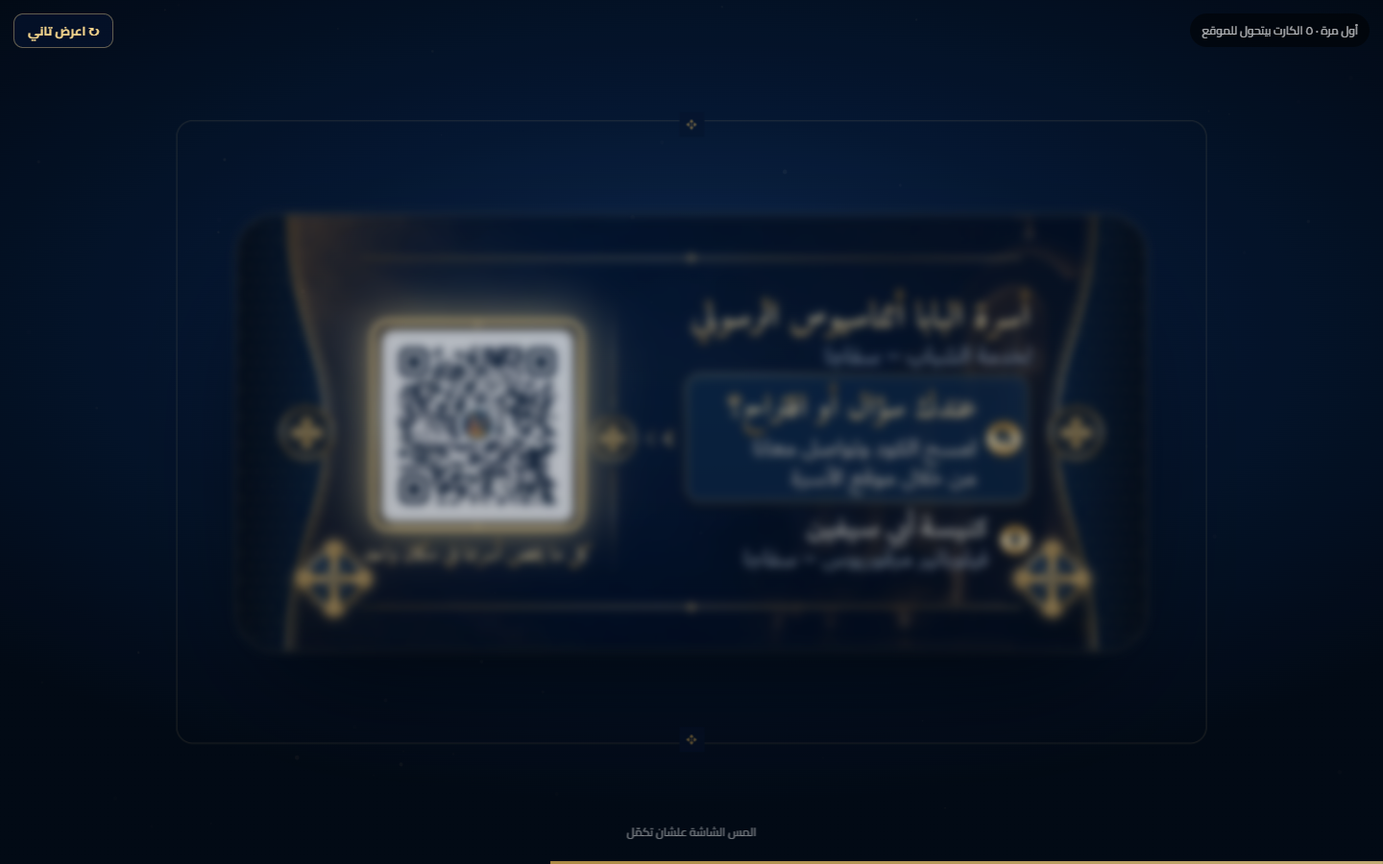
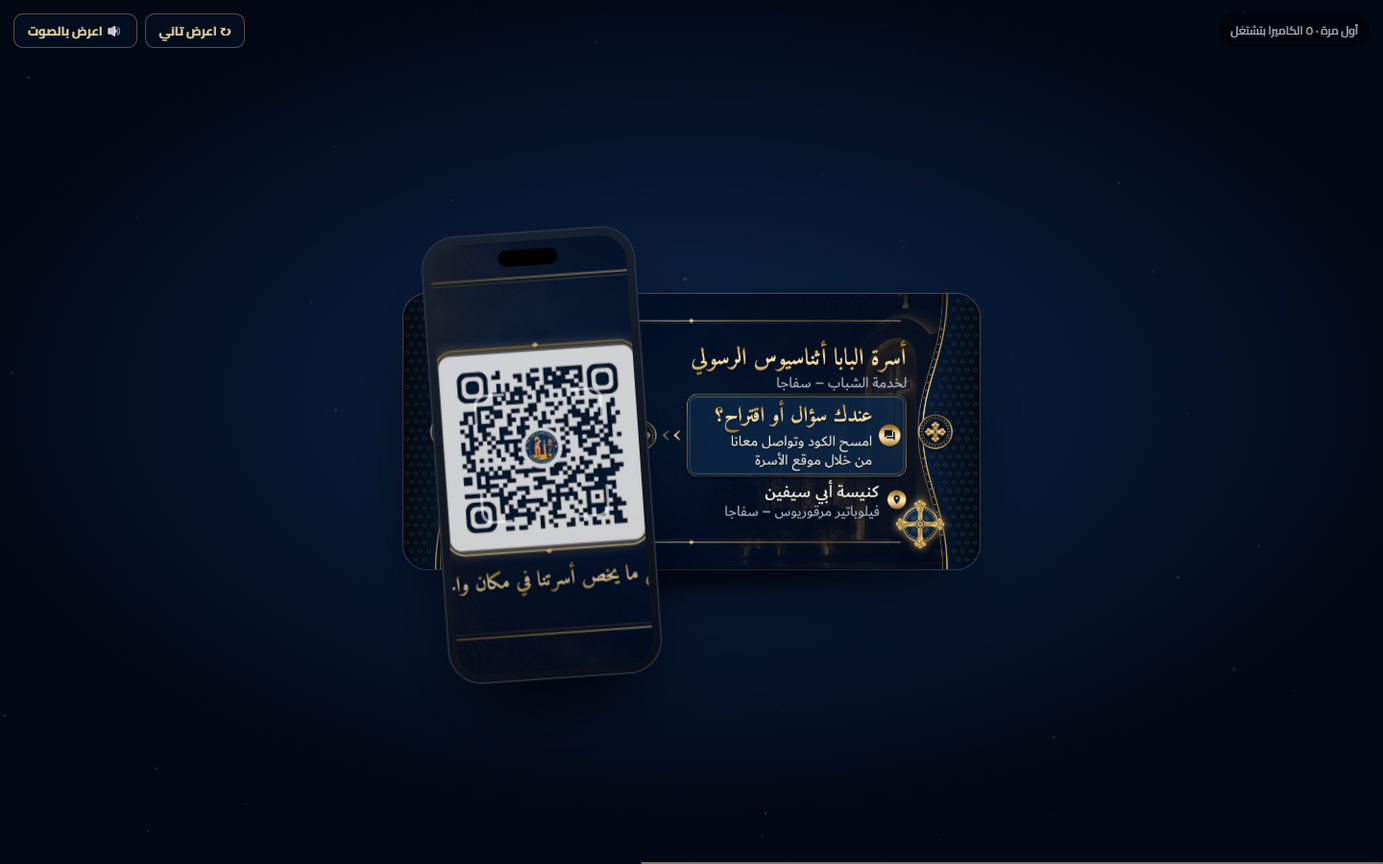
docs(site): S1 intro v2 — owner notes (clean text, one calm turn, phone reveal, no ornaments, softer gold, sound cues)

diff --git a/docs/site-redesign/intro.html b/docs/site-redesign/intro.html
@@ -2,100 +2,91 @@
 <html lang="ar" dir="rtl">
 <meta charset="utf-8">
 <meta name="viewport" content="width=device-width, initial-scale=1, viewport-fit=cover">
-<title>الموقع العام — الانترو المقترح (S1)</title>
+<title>الموقع العام — الانترو المقترح (S1 · نسخة ٢)</title>
 <!--
-  S1 proposal: the public site's intro, separate from the admin's.
-  ?v=first  (default) — first visit until the member makes an account: card 3D turn → phone scans the QR →
-                         the card becomes the site → backdrop → logo + name → slogan → welcome.
-  ?v=member — after the account exists: lighter, no card, no scan.
-  ?freeze=<ms> pauses everything at that moment (stage screenshots); ?replay shows the replay button.
+  S1 v2 (owner notes 2026-11-05): clean solid text with nothing behind it, a calm single card turn (ease-in-out),
+  the phone arrives with a clean screen and the QR shows only when its camera scans, no crosses/ornaments,
+  a softer gold logo, and sound cues for every stage (synthesised here; real SFX files at build time).
+  ?v=first (default) | ?v=member · ?freeze=<ms> pauses at that moment · «اعرض بالصوت» replays with sound.
 -->
 <style>
   @font-face { font-family: "Cairo"; src: url("../../assets/fonts/cairo-arabic.woff2") format("woff2"); unicode-range: U+0600-06FF, U+FB50-FDFF, U+FE70-FEFF; font-weight: 200 1000; }
   @font-face { font-family: "Cairo"; src: url("../../assets/fonts/cairo-latin.woff2") format("woff2"); unicode-range: U+0000-00FF; font-weight: 200 1000; }
   @font-face { font-family: "Aref Ruqaa"; src: url("../../assets/fonts/aref-ruqaa-arabic.woff2") format("woff2"); font-weight: 400 700; }
-  :root { --gold: #d7aa50; --gold-hi: #f2d28b; --navy: #04122a; --navy-2: #0a2448; --ease: cubic-bezier(.16, 1, .3, 1); }
+  :root { --champagne: #e3cf9f; --champagne-2: #c9ad74; --ink: #eef2f7; --ink-2: #b7c3d3; }
   * { box-sizing: border-box; }
-  html, body { margin: 0; height: 100%; overflow: hidden; background: #01060f; font-family: "Cairo", system-ui, sans-serif; color: #eef3f9; }
-  .stage { position: fixed; inset: 0; overflow: hidden; perspective: 1400px; display: grid; place-items: center; cursor: pointer; }
-  /* the dark room before the card */
-  .room { position: absolute; inset: 0; background: radial-gradient(50% 45% at 50% 48%, #0d2a50 0%, #04102a 55%, #01060f 100%); }
-  .dust { position: absolute; inset: 0; width: 100%; height: 100%; }
-  /* the card: real art, two faces, 3D turn */
-  .card { position: absolute; width: min(78vw, 620px); aspect-ratio: 1134 / 543; transform-style: preserve-3d; will-change: transform; }
-  .card__face { position: absolute; inset: 0;  border-radius: 4.2%/8.8%; overflow: hidden; box-shadow: 0 40px 90px -30px rgb(0 0 0 / .9), 0 0 0 1px rgb(242 210 139 / .35); }
+  html, body { margin: 0; height: 100%; overflow: hidden; background: #020814; font-family: "Cairo", system-ui, sans-serif; color: var(--ink); }
+  .stage { position: fixed; inset: 0; overflow: hidden; perspective: 1600px; display: grid; place-items: center; cursor: pointer; }
+  .room { position: absolute; inset: 0; background: radial-gradient(55% 50% at 50% 46%, #0c2546 0%, #061630 52%, #020814 100%); opacity: 0; }
+  .dust { position: absolute; inset: 0; width: 100%; height: 100%; opacity: .55; }
+  .site { position: absolute; inset: 0; background: radial-gradient(60% 55% at 50% 40%, #0e2a50 0%, #071b38 45%, #030b1a 100%); opacity: 0; }
+  .glow { position: absolute; left: 50%; top: 40%; width: 70vmin; height: 70vmin; margin: -35vmin 0 0 -35vmin; border-radius: 50%; background: radial-gradient(circle, rgb(227 207 159 / .12), transparent 65%); opacity: 0; }
+  .card { position: absolute; width: min(74vw, 600px); aspect-ratio: 1134 / 543; transform-style: preserve-3d; opacity: 0; will-change: transform; }
+  .card__face { position: absolute; inset: 0; border-radius: 4.2%/8.8%; overflow: hidden; box-shadow: 0 36px 80px -34px rgb(0 0 0 / .95), 0 0 0 1px rgb(227 207 159 / .28); }
   .card__face img { width: 100%; height: 100%; display: block; }
-  .card__face--qr { transform: rotateY(180deg) translateZ(1px); }
-  .card__sheen { position: absolute; inset: 0; background: linear-gradient(115deg, transparent 30%, rgb(255 244 214 / .32) 48%, transparent 62%); transform: translateX(-120%); }
-  .card__glow { position: absolute; inset: -18%; border-radius: 30%; background: radial-gradient(closest-side, rgb(215 170 80 / .35), transparent 70%); filter: blur(10px); transform: translateZ(-40px); opacity: 0; }
-  /* the QR area on the QR face (x 15.6%–37.3%, y 25.7%–71%) */
-  .qrmark { position: absolute; right: 15.2%; top: 25%; width: 22.6%; height: 46.6%; border-radius: 10px; box-shadow: 0 0 0 3px var(--gold-hi), 0 0 30px 6px rgb(242 210 139 / .7); opacity: 0; transform: rotateY(180deg) translateZ(2px); }
-  /* the phone that scans */
-  .phone { position: absolute; width: min(30vw, 230px); aspect-ratio: 9 / 19; border-radius: 34px; background: #0b0f17; padding: 9px; box-shadow: 0 0 0 2px #2a3446, 0 40px 80px -24px #000, inset 0 0 0 1px #000; opacity: 0; will-change: transform; }
-  .phone__screen { position: relative; width: 100%; height: 100%; border-radius: 26px; overflow: hidden; background: #000; }
-  .phone__cam { position: absolute; inset: 0; background-image: url(assets/card-front.png); background-size: 470% auto; background-position: 20% 50%; filter: saturate(1.05) brightness(.95); }
-  .phone__notch { position: absolute; top: 8px; left: 50%; width: 34%; height: 18px; margin-left: -17%; border-radius: 12px; background: #000; z-index: 3; }
-  .phone__ui { position: absolute; inset: 0; z-index: 2; display: grid; place-items: center; }
-  .finder { position: relative; width: 68%; aspect-ratio: 1; }
-  .finder i { position: absolute; width: 26%; height: 26%; border: 4px solid #fff; }
-  .finder i:nth-child(1) { top: 0; right: 0; border-left: 0; border-bottom: 0; border-radius: 0 14px 0 0; }
-  .finder i:nth-child(2) { top: 0; left: 0; border-right: 0; border-bottom: 0; border-radius: 14px 0 0 0; }
-  .finder i:nth-child(3) { bottom: 0; right: 0; border-left: 0; border-top: 0; border-radius: 0 0 14px 0; }
-  .finder i:nth-child(4) { bottom: 0; left: 0; border-right: 0; border-top: 0; border-radius: 0 0 0 14px; }
-  .scanline { position: absolute; left: 6%; right: 6%; top: 8%; height: 3px; border-radius: 3px; background: linear-gradient(90deg, transparent, var(--gold-hi), transparent); box-shadow: 0 0 14px 2px var(--gold); }
-  .phone__ok { position: absolute; bottom: 9%; left: 8%; right: 8%; z-index: 4; display: flex; align-items: center; gap: 8px; padding: 9px 12px; border-radius: 16px; background: rgb(10 30 60 / .88); border: 1px solid rgb(242 210 139 / .4); font-size: 12px; font-weight: 800; opacity: 0; transform: translateY(12px); }
-  .phone__ok b { width: 22px; height: 22px; border-radius: 50%; display: grid; place-items: center; background: linear-gradient(135deg, var(--gold-hi), var(--gold)); color: #1d1203; font-size: 13px; flex: none; }
-  /* the morph: the card's art fills the screen and settles into the site's own backdrop */
-  .wash { position: absolute; inset: 0; background: radial-gradient(70% 55% at 50% 38%, #10305a 0%, #061936 45%, #020a16 100%); opacity: 0; }
-  .rays { position: absolute; left: 50%; top: 38%; width: 220vmax; height: 220vmax; margin: -110vmax 0 0 -110vmax; background: repeating-conic-gradient(from 0deg, rgb(242 210 139 / .07) 0deg 2deg, transparent 2deg 15deg); -webkit-mask: radial-gradient(circle, #000 0, transparent 34%); mask: radial-gradient(circle, #000 0, transparent 34%); opacity: 0; }
-  .crosses { position: absolute; inset: 0; background-image: radial-gradient(circle at 1px 1px, rgb(242 210 139 / .16) 1px, transparent 1.6px); background-size: 34px 34px; -webkit-mask: radial-gradient(60% 50% at 50% 40%, transparent 20%, #000 80%); mask: radial-gradient(60% 50% at 50% 40%, transparent 20%, #000 80%); opacity: 0; }
-  .frame { position: absolute; inset: 4vmin; border: 1px solid rgb(242 210 139 / .35); border-radius: 22px; opacity: 0; }
-  .frame::before, .frame::after { content: "✥"; position: absolute; top: -12px; left: 50%; transform: translateX(-50%); color: var(--gold); font-size: 18px; background: #04122a; padding: 0 8px; }
-  .frame::after { top: auto; bottom: -12px; }
-  /* logo, name, slogan, welcome */
-  .brand { position: absolute; top: 50%; left: 50%; transform: translate(-50%, -58%); display: flex; flex-direction: column; align-items: center; text-align: center; width: min(92vw, 760px); }
-  .logo { position: relative; width: clamp(120px, 20vmin, 190px); aspect-ratio: 1; opacity: 0; }
-  .logo img { width: 100%; height: 100%; border-radius: 50%; display: block; box-shadow: 0 0 0 2px rgb(242 210 139 / .6), 0 0 70px -10px var(--gold), 0 30px 60px -30px #000; }
-  .logo__halo { position: absolute; inset: -70%; border-radius: 50%; background: radial-gradient(circle, rgb(215 170 80 / .32) 0%, rgb(215 170 80 / .08) 40%, transparent 68%); }
-  .logo__ring { position: absolute; inset: -12px; border-radius: 50%; border: 1px solid rgb(242 210 139 / .45); }
-  .name { margin: 22px 0 0; font-family: "Aref Ruqaa", serif; font-weight: 700; font-size: clamp(36px, 7.4vmin, 66px); line-height: 1.25; background: linear-gradient(180deg, #fff4d6, var(--gold-hi) 45%, var(--gold)); -webkit-background-clip: text; background-clip: text; color: transparent; filter: drop-shadow(0 6px 18px rgb(215 170 80 / .25)); clip-path: inset(0 0 0 100%); }
-  .sub { margin: 2px 0 0; font-family: "Aref Ruqaa", serif; font-size: clamp(17px, 3vmin, 25px); color: var(--gold-hi); opacity: 0; }
-  .slogan { margin: 22px 0 0; font-size: clamp(17px, 3vmin, 24px); font-weight: 700; color: #fff; opacity: 0; }
-  .slogan em { font-style: normal; color: var(--gold-hi); }
-  .welcome { margin: 16px 0 0; max-width: 560px; font-size: clamp(14px, 2.3vmin, 18px); line-height: 1.9; color: #c9d5e4; opacity: 0; }
-  .welcome b { color: var(--gold-hi); }
-  .hint { position: absolute; bottom: 22px; left: 50%; transform: translateX(-50%); font-size: 12px; color: rgb(255 255 255 / .45); opacity: 0; }
-  .bar { position: absolute; bottom: 0; left: 0; height: 3px; width: 100%; background: linear-gradient(90deg, var(--gold), var(--gold-hi)); transform-origin: right; transform: scaleX(0); opacity: .8; }
-  .replay { position: fixed; top: 14px; left: 14px; z-index: 9; height: 36px; padding: 0 14px; border-radius: 10px; border: 1px solid rgb(242 210 139 / .4); background: rgb(4 18 42 / .8); color: var(--gold-hi); font: 700 13px Cairo, sans-serif; cursor: pointer; display: none; }
-  .stagename { position: fixed; top: 14px; right: 14px; z-index: 9; padding: 6px 12px; border-radius: 999px; background: rgb(0 0 0 / .5); font-size: 12px; color: rgb(255 255 255 / .7); display: none; }
-  html.show-ui .replay, html.show-ui .stagename { display: block; }
-  @media (max-width: 700px) {
-    .card { width: 88vw; }
-    .phone { width: 46vw; }
-  }
+  .card__face--qr { transform: rotateY(180deg); opacity: 0; }
+  .card__sheen { position: absolute; inset: 0; background: linear-gradient(110deg, transparent 35%, rgb(255 248 230 / .16) 50%, transparent 65%); transform: translateX(-130%); }
+  .shadow { position: absolute; width: min(60vw, 480px); height: 40px; margin-top: min(36vw, 300px); border-radius: 50%; background: radial-gradient(closest-side, rgb(0 0 0 / .55), transparent); opacity: 0; filter: blur(6px); }
+  .qrmark { position: absolute; right: 15.2%; top: 25%; width: 22.6%; height: 46.6%; border-radius: 10px; box-shadow: 0 0 0 2px var(--champagne), 0 0 22px 2px rgb(227 207 159 / .45); opacity: 0; transform: rotateY(180deg) translateZ(2px); }
+  .phone { position: absolute; width: min(28vw, 220px); aspect-ratio: 9 / 19; border-radius: 34px; background: linear-gradient(160deg, #1a2231, #0a0e15); padding: 8px; box-shadow: 0 0 0 1.5px #2c3647, 0 40px 80px -28px #000; opacity: 0; will-change: transform; }
+  .phone__screen { position: relative; width: 100%; height: 100%; border-radius: 27px; overflow: hidden; background: linear-gradient(170deg, #10233f, #050b16 70%); }
+  .phone__island { position: absolute; top: 9px; left: 50%; width: 30%; height: 17px; margin-left: -15%; border-radius: 12px; background: #000; z-index: 5; }
+  .phone__idle { position: absolute; inset: 0; display: flex; flex-direction: column; align-items: center; justify-content: center; gap: 12px; color: var(--ink-2); font-size: 12px; font-weight: 700; }
+  .phone__idle i { width: 46px; height: 46px; border-radius: 14px; display: grid; place-items: center; background: rgb(255 255 255 / .07); border: 1px solid rgb(255 255 255 / .12); }
+  .phone__idle svg { width: 22px; height: 22px; fill: none; stroke: var(--champagne); stroke-width: 1.7; stroke-linecap: round; stroke-linejoin: round; }
+  .phone__cam { position: absolute; inset: 0; background-image: url(assets/card-front.png); background-size: 470% auto; background-position: 20% 50%; opacity: 0; filter: brightness(.92); }
+  .phone__ui { position: absolute; inset: 0; display: grid; place-items: center; opacity: 0; }
+  .finder { position: relative; width: 66%; aspect-ratio: 1; }
+  .finder i { position: absolute; width: 24%; height: 24%; border: 3px solid rgb(255 255 255 / .92); }
+  .finder i:nth-child(1) { top: 0; right: 0; border-left: 0; border-bottom: 0; border-radius: 0 12px 0 0; }
+  .finder i:nth-child(2) { top: 0; left: 0; border-right: 0; border-bottom: 0; border-radius: 12px 0 0 0; }
+  .finder i:nth-child(3) { bottom: 0; right: 0; border-left: 0; border-top: 0; border-radius: 0 0 12px 0; }
+  .finder i:nth-child(4) { bottom: 0; left: 0; border-right: 0; border-top: 0; border-radius: 0 0 0 12px; }
+  .scanline { position: absolute; left: 6%; right: 6%; top: 6%; height: 2px; border-radius: 2px; background: linear-gradient(90deg, transparent, var(--champagne), transparent); box-shadow: 0 0 10px 1px rgb(227 207 159 / .6); opacity: 0; }
+  .phone__ok { position: absolute; bottom: 9%; left: 8%; right: 8%; display: flex; align-items: center; gap: 8px; padding: 9px 11px; border-radius: 15px; background: rgb(8 22 44 / .92); border: 1px solid rgb(227 207 159 / .3); font-size: 11.5px; font-weight: 700; color: var(--ink); opacity: 0; }
+  .phone__ok b { width: 20px; height: 20px; border-radius: 50%; display: grid; place-items: center; background: var(--champagne); color: #1b1407; font-size: 12px; flex: none; }
+  .brand { position: absolute; top: 50%; left: 50%; transform: translate(-50%, -54%); display: flex; flex-direction: column; align-items: center; text-align: center; width: min(92vw, 720px); }
+  .logo { position: relative; width: clamp(112px, 18vmin, 168px); aspect-ratio: 1; opacity: 0; }
+  .logo img { width: 100%; height: 100%; border-radius: 50%; display: block; filter: saturate(.72) brightness(.9) contrast(1.02); box-shadow: 0 0 0 1px rgb(227 207 159 / .35), 0 24px 50px -26px #000; }
+  .logo__ring { position: absolute; inset: -10px; border-radius: 50%; border: 1px solid rgb(227 207 159 / .22); opacity: 0; }
+  .name { margin: 26px 0 0; font-family: "Aref Ruqaa", serif; font-weight: 700; font-size: clamp(34px, 6.6vmin, 58px); line-height: 1.35; color: var(--champagne); opacity: 0; }
+  .sub { margin: 4px 0 0; font-family: "Aref Ruqaa", serif; font-size: clamp(16px, 2.7vmin, 22px); color: var(--champagne-2); opacity: 0; }
+  .line { width: 64px; height: 1px; margin: 22px 0 0; background: rgb(227 207 159 / .45); transform: scaleX(0); }
+  .slogan { margin: 20px 0 0; font-size: clamp(17px, 2.9vmin, 23px); font-weight: 700; color: var(--ink); opacity: 0; }
+  .welcome { margin: 10px 0 0; max-width: 560px; font-size: clamp(14px, 2.2vmin, 17px); line-height: 1.9; color: var(--ink-2); opacity: 0; }
+  .welcome b { color: var(--champagne); font-weight: 700; }
+  .bar { position: absolute; bottom: 0; left: 0; height: 2px; width: 100%; background: rgb(227 207 159 / .55); transform-origin: right; transform: scaleX(0); }
+  .ui { position: fixed; top: 14px; left: 14px; z-index: 9; display: flex; gap: 8px; }
+  .ui button { height: 36px; padding: 0 14px; border-radius: 10px; border: 1px solid rgb(227 207 159 / .35); background: rgb(4 14 30 / .85); color: var(--champagne); font: 700 13px Cairo, sans-serif; cursor: pointer; }
+  .stagename { position: fixed; top: 14px; right: 14px; z-index: 9; padding: 6px 12px; border-radius: 999px; background: rgb(0 0 0 / .45); font-size: 12px; color: rgb(255 255 255 / .7); }
+  @media (max-width: 700px) { .card { width: 86vw; } .phone { width: 34vw; } .shadow { margin-top: 44vw; width: 70vw; } .stagename { top: auto; bottom: 14px; right: 50%; transform: translateX(50%); white-space: nowrap; } }
 </style>
 <body>
-<button class="replay" type="button" onclick="location.reload()">↻ اعرض تاني</button>
+<div class="ui"><button type="button" id="replay">↻ اعرض تاني</button><button type="button" id="sound">🔊 اعرض بالصوت</button></div>
 <span class="stagename" id="stagename"></span>
 <div class="stage" id="stage">
   <div class="room"></div>
   <canvas class="dust"></canvas>
-  <div class="wash"></div><div class="rays"></div><div class="crosses"></div><div class="frame"></div>
+  <div class="site"></div><div class="glow"></div>
+  <span class="shadow"></span>
   <div class="card" id="card">
-    <span class="card__glow"></span>
     <div class="card__face card__face--logo"><img src="assets/card-back.png" alt=""><span class="card__sheen"></span></div>
     <div class="card__face card__face--qr"><img src="assets/card-front.png" alt=""><span class="card__sheen"></span></div>
     <span class="qrmark"></span>
   </div>
-  <div class="phone" id="phone"><div class="phone__screen"><span class="phone__notch"></span><div class="phone__cam"></div><div class="phone__ui"><div class="finder"><i></i><i></i><i></i><i></i><span class="scanline"></span></div></div><div class="phone__ok"><b>✓</b>اتعمل Scan · بنفتح موقع الأسرة</div></div></div>
+  <div class="phone" id="phone"><div class="phone__screen"><span class="phone__island"></span>
+    <div class="phone__idle"><i><svg viewBox="0 0 24 24"><path d="M4 8V6a2 2 0 0 1 2-2h2M16 4h2a2 2 0 0 1 2 2v2M20 16v2a2 2 0 0 1-2 2h-2M8 20H6a2 2 0 0 1-2-2v-2"/><path d="M8 12h8"/></svg></i>وجّه الكاميرا للكود</div>
+    <div class="phone__cam"></div>
+    <div class="phone__ui"><div class="finder"><i></i><i></i><i></i><i></i><span class="scanline"></span></div></div>
+    <div class="phone__ok"><b>✓</b>بنفتح موقع الأسرة…</div></div></div>
   <div class="brand">
-    <div class="logo"><span class="logo__halo"></span><span class="logo__ring"></span><img src="../../assets/img/logo-512.png" alt=""></div>
+    <div class="logo"><span class="logo__ring"></span><img src="../../assets/img/logo-512.png" alt=""></div>
     <p class="name">أسرة البابا أثناسيوس</p>
     <p class="sub">لخدمة شعب كنيستها الحبيبة في سفاجا</p>
-    <p class="slogan">كل اللي يخص اجتماعنا<em>...</em> في مكان واحد</p>
+    <span class="line"></span>
+    <p class="slogan">كل اللي يخص اجتماعنا… في مكان واحد</p>
     <p class="welcome" id="welcome">مرحبًا بك في تطبيق <b>أسرة البابا أثناسيوس</b> لخدمة شعب سفاجا</p>
   </div>
-  <span class="hint">المس الشاشة علشان تكمّل</span>
   <span class="bar"></span>
 </div>
 <script>
@@ -103,105 +94,109 @@
   var Q = new URLSearchParams(location.search);
   var V = Q.get('v') === 'member' ? 'member' : 'first';
   var FREEZE = Q.get('freeze') != null ? Number(Q.get('freeze')) : null;
-  if (Q.get('replay') != null || FREEZE == null) document.documentElement.classList.add('show-ui');
   var $ = function (s) { return document.querySelector(s); };
-  var E = 'cubic-bezier(.16,1,.3,1)', IO = 'cubic-bezier(.65,0,.35,1)';
-  var anims = [];
-  function A(sel, kf, o) { var n = typeof sel === 'string' ? $(sel) : sel; var a = n.animate(kf, Object.assign({ fill: 'both', easing: E }, o)); anims.push(a); return a; }
-  var STAGES = [];
+  var SOFT = 'cubic-bezier(.22,.61,.36,1)', INOUT = 'cubic-bezier(.65,0,.35,1)', OUT = 'cubic-bezier(.16,1,.3,1)';
+  var anims = [], cues = [], timers = [], STAGES = [];
+  function A(sel, kf, o) { var n = typeof sel === 'string' ? $(sel) : sel; var a = n.animate(kf, Object.assign({ fill: 'both', easing: SOFT }, o)); anims.push(a); return a; }
+  function fade(sel, at, dur, from) { return A(sel, [{ opacity: 0, transform: from || 'translateY(10px)' }, { opacity: 1, transform: 'none' }], { duration: dur, delay: at }); }
   function stage(at, name) { STAGES.push([at, name]); }
+  function cue(at, name) { cues.push([at, name]); }
 
-  /* gold dust, drawn from the timeline clock so a frozen frame shows it too */
+  /* sound: a small synthesised set so cues and timing can be judged now (real SFX files at build time) */
+  var AC = null, master = null;
+  function tone(type, f1, f2, at, dur, vol) { var o = AC.createOscillator(), g = AC.createGain(), t = AC.currentTime + at; o.type = type; o.frequency.setValueAtTime(f1, t); if (f2) o.frequency.exponentialRampToValueAtTime(f2, t + dur); g.gain.setValueAtTime(0, t); g.gain.linearRampToValueAtTime(vol, t + Math.min(.08, dur / 4)); g.gain.exponentialRampToValueAtTime(.0001, t + dur); o.connect(g); g.connect(master); o.start(t); o.stop(t + dur + .05); }
+  function noise(at, dur, f1, f2, vol) { var b = AC.createBuffer(1, Math.floor(AC.sampleRate * dur), AC.sampleRate), d = b.getChannelData(0); for (var i = 0; i < d.length; i++) d[i] = Math.random() * 2 - 1; var s = AC.createBufferSource(), f = AC.createBiquadFilter(), g = AC.createGain(), t = AC.currentTime + at; s.buffer = b; f.type = 'bandpass'; f.Q.value = .8; f.frequency.setValueAtTime(f1, t); f.frequency.exponentialRampToValueAtTime(f2, t + dur); g.gain.setValueAtTime(0, t); g.gain.linearRampToValueAtTime(vol, t + dur * .45); g.gain.linearRampToValueAtTime(0, t + dur); s.connect(f); f.connect(g); g.connect(master); s.start(t); }
+  var SFX = {
+    open: function () { tone('sine', 110, 0, 0, 2.6, .05); tone('sine', 220, 0, .1, 2.2, .025); },
+    card: function () { tone('sine', 660, 0, 0, 1.2, .025); tone('sine', 990, 0, .12, 1, .015); },
+    turn: function () { noise(0, 1.6, 400, 2400, .06); },
+    phone: function () { tone('sine', 1180, 0, 0, .14, .035); tone('sine', 1560, 0, .07, .12, .02); },
+    scan: function () { noise(0, .7, 1800, 3200, .03); },
+    ok: function () { tone('sine', 880, 0, 0, .35, .05); tone('sine', 1318.5, 0, .12, .5, .05); },
+    morph: function () { noise(0, 1.3, 300, 1200, .05); tone('sine', 147, 294, 0, 1.4, .035); },
+    brand: function () { [392, 493.9, 587.3, 784].forEach(function (f, i) { tone('sine', f, 0, i * .08, 2.2, .028); }); }
+  };
+
   var cv = $('.dust'), ctx = cv.getContext('2d'), dpr = Math.min(2, devicePixelRatio || 1), ps = [];
-  function size() { cv.width = innerWidth * dpr; cv.height = innerHeight * dpr; ctx.setTransform(dpr, 0, 0, dpr, 0, 0); }
-  size();
-  for (var i = 0; i < 70; i++) ps.push({ x: Math.random(), y: Math.random(), r: .6 + Math.random() * 1.8, v: .02 + Math.random() * .05, a: Math.random() * 6.28 });
-  function drawDust(t) {
-    ctx.clearRect(0, 0, innerWidth, innerHeight);
-    ps.forEach(function (p) {
-      var y = (p.y - p.v * t / 1000 + 2) % 1, x = p.x + Math.sin(p.a + t / 900) * .01, tw = .5 + .5 * Math.sin(p.a * 3 + t / 300);
-      ctx.beginPath(); ctx.fillStyle = 'rgba(242,210,139,' + (.06 + .3 * tw).toFixed(3) + ')'; ctx.arc(x * innerWidth, y * innerHeight, p.r, 0, 6.283); ctx.fill();
-    });
-  }
+  cv.width = innerWidth * dpr; cv.height = innerHeight * dpr; ctx.setTransform(dpr, 0, 0, dpr, 0, 0);
+  for (var i = 0; i < 46; i++) ps.push({ x: Math.random(), y: Math.random(), r: .5 + Math.random() * 1.4, v: .012 + Math.random() * .03, a: Math.random() * 6.28 });
+  function drawDust(t) { ctx.clearRect(0, 0, innerWidth, innerHeight); ps.forEach(function (p) { var y = (p.y - p.v * t / 1000 + 2) % 1, tw = .5 + .5 * Math.sin(p.a * 3 + t / 500); ctx.beginPath(); ctx.fillStyle = 'rgba(227,207,159,' + (.05 + .22 * tw).toFixed(3) + ')'; ctx.arc((p.x + Math.sin(p.a + t / 1400) * .008) * innerWidth, y * innerHeight, p.r, 0, 6.283); ctx.fill(); }); }
 
   var T;
-  if (V === 'first') {
-    T = 9800;
-    // 1 — the card arrives and turns: logo face → QR face (full 3D turn, then settles on the QR)
-    stage(0, '١ الكارت بيظهر');
-    A('#card', [
-      { transform: 'translateY(30px) rotateX(18deg) rotateY(-30deg) scale(.55)', opacity: 0 },
-      { transform: 'translateY(0) rotateX(10deg) rotateY(0deg) scale(.9)', opacity: 1, offset: .22 },
-      { transform: 'rotateX(6deg) rotateY(180deg) scale(.95)', offset: .55 },
-      { transform: 'rotateX(4deg) rotateY(360deg) scale(.95)', offset: .78 },
-      { transform: 'rotateX(0deg) rotateY(540deg) scale(1)' }
-    ], { duration: 3000, easing: IO });
-    stage(900, '٢ لفة 3D: الوش والضهر');
-    A('.card__face--logo', [{ opacity: 1, easing: 'step-end' }, { opacity: 0, offset: .3, easing: 'step-end' }, { opacity: 1, offset: .66, easing: 'step-end' }, { opacity: 0, offset: .89 }, { opacity: 0 }], { duration: 3000, easing: 'cubic-bezier(.65,0,.35,1)' });
-    A('.card__face--qr', [{ opacity: 0, easing: 'step-end' }, { opacity: 1, offset: .3, easing: 'step-end' }, { opacity: 0, offset: .66, easing: 'step-end' }, { opacity: 1, offset: .89 }, { opacity: 1 }], { duration: 3000, easing: 'cubic-bezier(.65,0,.35,1)' });
-    var QX = -0.26 * document.getElementById('card').offsetWidth, PY = 0.06 * document.getElementById('card').offsetWidth;
-    A('.card__glow', [{ opacity: 0 }, { opacity: 1, offset: .3 }, { opacity: .6 }], { duration: 3000 });
-    document.querySelectorAll('.card__sheen').forEach(function (s, k) { A(s, [{ transform: 'translateX(-120%)' }, { transform: 'translateX(140%)' }], { duration: 900, delay: 700 + k * 900, easing: 'ease-in-out' }); });
-    // 2 — the phone comes in and scans the QR
-    stage(3000, '٣ الموبايل بيعمل Scan');
-    A('#phone', [{ opacity: 0, transform: 'translate(' + (QX - 160) + 'px, 260px) rotate(-14deg) scale(.9)' }, { opacity: 1, transform: 'translate(' + QX + 'px, ' + PY + 'px) rotate(-5deg) scale(1)' }], { duration: 900, delay: 2900 });
-    A('.scanline', [{ top: '8%' }, { top: '88%' }, { top: '8%' }, { top: '88%' }], { duration: 1300, delay: 3500, easing: 'ease-in-out' });
-    A('.qrmark', [{ opacity: 0 }, { opacity: 1, offset: .4 }, { opacity: .2, offset: .7 }, { opacity: 1 }], { duration: 900, delay: 4300 });
-    A('.phone__ok', [{ opacity: 0, transform: 'translateY(12px)' }, { opacity: 1, transform: 'none' }], { duration: 400, delay: 4750 });
-    stage(4800, '٤ اتعمل Scan ✓');
-    // 3 — the card becomes the site: it grows past the screen, the art melts into the site backdrop
-    stage(5500, '٥ الكارت بيتحول للموقع');
-    A('#phone', [{ opacity: 1, transform: 'translate(' + QX + 'px, ' + PY + 'px) rotate(-5deg) scale(1)' }, { opacity: 0, transform: 'translate(' + (QX - 120) + 'px, 220px) rotate(-10deg) scale(.9)' }], { duration: 500, delay: 5300, easing: 'ease-in', fill: 'forwards' });
-    A('#card', [{ transform: 'rotateY(540deg) scale(1)', filter: 'blur(0) brightness(1)', opacity: 1 }, { transform: 'rotateY(540deg) scale(3.4)', filter: 'blur(14px) brightness(.55)', opacity: 0 }], { duration: 1300, delay: 5400, easing: 'cubic-bezier(.7,0,.25,1)', fill: 'forwards' });
-    A('.room', [{ opacity: 1 }, { opacity: 0 }], { duration: 900, delay: 5700, fill: 'forwards' });
-    A('.wash', [{ opacity: 0 }, { opacity: 1 }], { duration: 1000, delay: 5600 });
-    A('.frame', [{ opacity: 0, transform: 'scale(.6)' }, { opacity: 1, transform: 'none' }], { duration: 1100, delay: 5800 });
-    // 4 — the backdrop behind the logo, then the logo and the name
-    stage(6500, '٦ الخلفية واللوجو والاسم');
-    A('.rays', [{ opacity: 0, transform: 'rotate(0deg)' }, { opacity: 1, transform: 'rotate(10deg)' }], { duration: 3300, delay: 6100, easing: 'linear' });
-    A('.crosses', [{ opacity: 0 }, { opacity: 1 }], { duration: 900, delay: 6200 });
-    A('.logo', [{ opacity: 0, transform: 'scale(.7)', filter: 'blur(8px)' }, { opacity: 1, transform: 'none', filter: 'blur(0)' }], { duration: 800, delay: 6400 });
-    A('.logo__halo', [{ opacity: 0, transform: 'scale(.6)' }, { opacity: 1, transform: 'none' }], { duration: 1000, delay: 6400 });
-    A('.logo__ring', [{ opacity: 0, transform: 'scale(.8)' }, { opacity: 1, transform: 'none' }], { duration: 700, delay: 6700 });
-    A('.name', [{ clipPath: 'inset(0 0 0 100%)' }, { clipPath: 'inset(0 0 0 0)' }], { duration: 900, delay: 6900, easing: 'cubic-bezier(.4,0,.2,1)' });
-    A('.sub', [{ opacity: 0, transform: 'translateY(8px)' }, { opacity: 1, transform: 'none' }], { duration: 600, delay: 7500 });
-    // 5 — the slogan, 6 — the welcome
-    stage(8000, '٧ السلوجان');
-    A('.slogan', [{ opacity: 0, transform: 'translateY(10px)', letterSpacing: '.08em' }, { opacity: 1, transform: 'none', letterSpacing: '0' }], { duration: 700, delay: 7900 });
-    stage(8900, '٨ الترحيب');
-    A('.welcome', [{ opacity: 0, transform: 'translateY(8px)' }, { opacity: 1, transform: 'none' }], { duration: 700, delay: 8700 });
-    A('.hint', [{ opacity: 0 }, { opacity: 1 }], { duration: 400, delay: 1200 });
-  } else {
-    // after the account: no card, no scan — the backdrop, the logo, «أهلًا يا مينا», the slogan
-    T = 3600;
-    $('#card').style.display = 'none'; $('#phone').style.display = 'none'; $('.room').style.display = 'none';
-    $('#welcome').innerHTML = 'أهلًا يا <b>مينا</b> 👋 · فاضل ٣ أيام على اجتماع الشباب';
-    stage(0, '١ الخلفية');
-    A('.wash', [{ opacity: 0 }, { opacity: 1 }], { duration: 500 });
-    A('.rays', [{ opacity: 0 }, { opacity: 1, transform: 'rotate(6deg)' }], { duration: 2600, delay: 100, easing: 'linear' });
-    A('.crosses', [{ opacity: 0 }, { opacity: 1 }], { duration: 600, delay: 100 });
-    stage(500, '٢ اللوجو والاسم');
-    A('.logo', [{ opacity: 0, transform: 'scale(.8)', filter: 'blur(6px)' }, { opacity: 1, transform: 'none', filter: 'blur(0)' }], { duration: 650, delay: 250 });
-    A('.logo__halo', [{ opacity: 0 }, { opacity: 1 }], { duration: 700, delay: 250 });
-    A('.logo__ring', [{ opacity: 0 }, { opacity: 1 }], { duration: 500, delay: 500 });
-    A('.name', [{ clipPath: 'inset(0 0 0 100%)' }, { clipPath: 'inset(0 0 0 0)' }], { duration: 700, delay: 600, easing: 'cubic-bezier(.4,0,.2,1)' });
-    A('.sub', [{ opacity: 0 }, { opacity: 1 }], { duration: 400, delay: 1100 });
-    stage(1500, '٣ أهلًا بالاسم');
-    A('.welcome', [{ opacity: 0, transform: 'translateY(8px)' }, { opacity: 1, transform: 'none' }], { duration: 500, delay: 1300 });
-    A('.slogan', [{ opacity: 0 }, { opacity: 1 }], { duration: 500, delay: 1700 });
+  function build() {
+    anims.forEach(function (a) { a.cancel(); }); anims = []; cues = []; STAGES = [];
+    if (V === 'first') {
+      T = 11000;
+      var w = $('#card').offsetWidth, QX = -0.26 * w, PY = 0.04 * w;
+      stage(0, '١ الدخلة'); cue(0, 'open');
+      A('.room', [{ opacity: 0 }, { opacity: 1 }], { duration: 1200 });
+      stage(500, '٢ الكارت بيظهر'); cue(500, 'card');
+      A('#card', [{ opacity: 0, transform: 'translateY(26px) rotateX(10deg) scale(.94)' }, { opacity: 1, transform: 'translateY(0) rotateX(4deg) scale(1)' }], { duration: 1300, delay: 400, easing: OUT });
+      A('.shadow', [{ opacity: 0 }, { opacity: 1 }], { duration: 1200, delay: 500 });
+      A('.card__face--logo .card__sheen', [{ transform: 'translateX(-130%)' }, { transform: 'translateX(130%)' }], { duration: 1400, delay: 1100, easing: 'ease-in-out' });
+      stage(2100, '٣ الكارت بيلف (نص لفة)'); cue(2100, 'turn');
+      A('#card', [{ transform: 'rotateX(4deg) rotateY(0deg)' }, { transform: 'rotateX(6deg) rotateY(90deg) scale(.97)', offset: .5 }, { transform: 'rotateX(0deg) rotateY(180deg) scale(1)' }], { duration: 2000, delay: 2100, easing: INOUT, fill: 'forwards' });
+      A('.card__face--logo', [{ opacity: 1 }, { opacity: 1, offset: .5 }, { opacity: 0, offset: .5 }, { opacity: 0 }], { duration: 2000, delay: 2100, easing: INOUT });
+      A('.card__face--qr', [{ opacity: 0 }, { opacity: 0, offset: .5 }, { opacity: 1, offset: .5 }, { opacity: 1 }], { duration: 2000, delay: 2100, easing: INOUT });
+      A('.card__face--qr .card__sheen', [{ transform: 'translateX(-130%)' }, { transform: 'translateX(130%)' }], { duration: 1200, delay: 3700, easing: 'ease-in-out' });
+      stage(4400, '٤ الموبايل بيظهر (شاشة نضيفة)'); cue(4900, 'phone');
+      A('#phone', [{ opacity: 0, transform: 'translate(' + (QX - 60) + 'px, 140px) rotate(-8deg) scale(.96)' }, { opacity: 1, transform: 'translate(' + QX + 'px, ' + PY + 'px) rotate(-4deg) scale(1)' }], { duration: 1100, delay: 4300, easing: OUT });
+      stage(5600, '٥ الكاميرا بتشتغل');
+      A('.phone__idle', [{ opacity: 1 }, { opacity: 0 }], { duration: 400, delay: 5500 });
+      A('.phone__cam', [{ opacity: 0, transform: 'scale(1.08)' }, { opacity: 1, transform: 'none' }], { duration: 600, delay: 5600 });
+      A('.phone__ui', [{ opacity: 0 }, { opacity: 1 }], { duration: 400, delay: 5800 });
+      stage(6200, '٦ الـScan'); cue(6200, 'scan');
+      A('.scanline', [{ opacity: 0, top: '6%' }, { opacity: 1, top: '8%', offset: .1 }, { opacity: 1, top: '90%', offset: .9 }, { opacity: 0, top: '92%' }], { duration: 900, delay: 6200, easing: 'ease-in-out' });
+      A('.qrmark', [{ opacity: 0 }, { opacity: 1 }], { duration: 400, delay: 6900 });
+      A('.phone__ok', [{ opacity: 0, transform: 'translateY(8px)' }, { opacity: 1, transform: 'none' }], { duration: 450, delay: 7000 });
+      stage(7000, '٧ اتعمل Scan ✓'); cue(7000, 'ok');
+      stage(7800, '٨ التحول للموقع'); cue(7800, 'morph');
+      A('#phone', [{ opacity: 1, transform: 'translate(' + QX + 'px, ' + PY + 'px) rotate(-4deg) scale(1)' }, { opacity: 0, transform: 'translate(' + QX + 'px, ' + (PY + 40) + 'px) rotate(-4deg) scale(.94)' }], { duration: 600, delay: 7700, easing: 'ease-in', fill: 'forwards' });
+      A('#card', [{ opacity: 1, transform: 'rotateY(180deg) scale(1)', filter: 'blur(0)' }, { opacity: 0, transform: 'rotateY(180deg) scale(1.35)', filter: 'blur(10px)' }], { duration: 1100, delay: 7800, easing: INOUT, fill: 'forwards' });
+      A('.shadow', [{ opacity: 1 }, { opacity: 0 }], { duration: 600, delay: 7800, fill: 'forwards' });
+      A('.site', [{ opacity: 0 }, { opacity: 1 }], { duration: 1100, delay: 7900 });
+      A('.glow', [{ opacity: 0, transform: 'scale(.8)' }, { opacity: 1, transform: 'none' }], { duration: 1600, delay: 8200 });
+      stage(8600, '٩ اللوجو والاسم'); cue(8600, 'brand');
+      fade('.logo', 8500, 900, 'scale(.94)');
+      A('.logo__ring', [{ opacity: 0, transform: 'scale(.92)' }, { opacity: 1, transform: 'none' }], { duration: 900, delay: 8800 });
+      fade('.name', 9000, 800); fade('.sub', 9300, 700, 'translateY(6px)');
+      A('.line', [{ transform: 'scaleX(0)' }, { transform: 'scaleX(1)' }], { duration: 600, delay: 9600 });
+      stage(9800, '١٠ السلوجان'); fade('.slogan', 9800, 700);
+      stage(10400, '١١ الترحيب'); fade('.welcome', 10300, 700, 'translateY(6px)');
+    } else {
+      T = 4200;
+      ['#card', '#phone', '.room', '.shadow'].forEach(function (s) { $(s).style.display = 'none'; });
+      $('#welcome').innerHTML = 'أهلًا يا <b>مينا</b> · فاضل ٣ أيام على اجتماع الشباب';
+      $('.slogan').parentNode.insertBefore($('.welcome'), $('.slogan'));
+      stage(0, '١ الدخلة'); cue(0, 'open');
+      A('.site', [{ opacity: 0 }, { opacity: 1 }], { duration: 700 });
+      A('.glow', [{ opacity: 0 }, { opacity: 1 }], { duration: 1200, delay: 200 });
+      stage(400, '٢ اللوجو والاسم'); cue(400, 'brand');
+      fade('.logo', 300, 800, 'scale(.95)'); A('.logo__ring', [{ opacity: 0 }, { opacity: 1 }], { duration: 700, delay: 600 });
+      fade('.name', 700, 700); fade('.sub', 1000, 600, 'translateY(6px)');
+      A('.line', [{ transform: 'scaleX(0)' }, { transform: 'scaleX(1)' }], { duration: 500, delay: 1300 });
+      stage(1500, '٣ أهلًا بالاسم'); fade('.welcome', 1500, 600, 'translateY(6px)'); fade('.slogan', 1800, 600);
+    }
+    A('.bar', [{ transform: 'scaleX(0)' }, { transform: 'scaleX(1)' }], { duration: T, easing: 'linear' });
   }
-  A('.bar', [{ transform: 'scaleX(0)' }, { transform: 'scaleX(1)' }], { duration: T, easing: 'linear' });
 
   function label(t) { var n = ''; STAGES.forEach(function (s) { if (t >= s[0]) n = s[1]; }); $('#stagename').textContent = (V === 'first' ? 'أول مرة · ' : 'بعد الحساب · ') + n; }
-  if (FREEZE != null) {
-    anims.forEach(function (a) { a.pause(); a.currentTime = FREEZE; });
-    drawDust(FREEZE); label(FREEZE); document.documentElement.classList.add('show-ui');
-    return;
+  function run(withSound) {
+    timers.forEach(clearTimeout); timers = [];
+    build();
+    if (FREEZE != null) { anims.forEach(function (a) { a.pause(); a.currentTime = FREEZE; }); drawDust(FREEZE); label(FREEZE); return; }
+    if (withSound) {
+      AC = AC || new (window.AudioContext || window.webkitAudioContext)();
+      master = AC.createGain(); master.gain.value = .9; master.connect(AC.destination);
+      cues.forEach(function (c) { timers.push(setTimeout(function () { SFX[c[1]](); }, c[0])); });
+    }
+    var start = performance.now();
+    (function tick(now) { var t = now - start; drawDust(t); label(t); if (t < T + 1500) requestAnimationFrame(tick); })(start);
   }
-  var start = performance.now();
-  (function tick(now) { var t = now - start; drawDust(t); label(t); if (t < T + 2000) requestAnimationFrame(tick); })(start);
-  // never in the way: a tap jumps to the end
-  $('#stage').addEventListener('click', function () { anims.forEach(function (a) { try { a.finish(); } catch (e) {} }); });
+  run(false);
+  $('#replay').addEventListener('click', function (e) { e.stopPropagation(); run(false); });
+  $('#sound').addEventListener('click', function (e) { e.stopPropagation(); run(true); });
+  $('#stage').addEventListener('click', function () { timers.forEach(clearTimeout); anims.forEach(function (a) { try { a.finish(); } catch (err) {} }); });
 })();
 </script>
 </body>

diff --git a/docs/site-redesign/rounds.js b/docs/site-redesign/rounds.js
@@ -5,15 +5,18 @@ window.SITE_ROUNDS = [];
     return '<div class="frames">' + list.map(function (f) { return '<div><img loading="lazy" src="shots/desktop/intro-' + v + '-' + f[0] + '.png" alt=""><small>' + f[1] + '</small></div>'; }).join('') + '</div>' +
       '<p style="margin:14px 0 8px">على الموبايل:</p><div class="frames" style="grid-template-columns:repeat(5,1fr)">' + list.filter(function (f, i) { return i % 2 === 0 || i === list.length - 1; }).map(function (f) { return '<div><img loading="lazy" src="shots/phone/intro-' + v + '-' + f[0] + '.png" alt=""><small>' + f[1] + '</small></div>'; }).join('') + '</div>';
   }
-  var first = [[400, '١ الكارت بيظهر'], [1300, '٢ لفة 3D (الضهر)'], [2300, '٢ لفة 3D (الوش)'], [3700, '٣ الموبايل بيعمل Scan'], [4900, '٤ اتعمل Scan ✓'], [5900, '٥ الكارت بيتحول للموقع'], [6800, '٦ الخلفية واللوجو'], [7700, '٦ الاسم'], [8400, '٧ السلوجان'], [9700, '٨ الترحيب']];
-  var member = [[300, '١ الخلفية'], [900, '٢ اللوجو والاسم'], [1600, '٣ أهلًا بالاسم'], [3500, 'النهاية']];
+  var first = [[700, '١ الدخلة'], [1900, '٢ الكارت بيظهر'], [2700, '٣ نص لفة (الضهر)'], [3500, '٣ نص لفة (الوش)'], [4300, 'الكارت ثابت'], [5200, '٤ الموبايل بشاشة نضيفة'], [5900, '٥ الكاميرا بتشتغل'], [6600, '٦ الـScan'], [7300, '٧ اتعمل Scan ✓'], [8300, '٨ التحول للموقع'], [9300, '٩ اللوجو والاسم'], [10000, '١٠ السلوجان'], [11000, '١١ الترحيب']];
+  var member = [[300, '١ الدخلة'], [1000, '٢ اللوجو والاسم'], [1700, '٣ أهلًا بالاسم'], [4200, 'النهاية']];
   window.SITE_ROUNDS.push({ id: 's1', title: 'S1 — الانترو', html:
-    '<section class="shot"><h2>انترو «أول مرة» (لحد ما المخدوم يعمل حساب) <span class="tag">~١٠ ثواني</span></h2>' +
-    '<p>الكارت الحقيقي (الضهر بالقديسين واللوجو، والوش بالـQR) بيظهر من الضلمة وسط جزيئات دهبي، ويلف لفة 3D كاملة (الضهر ← الوش ← الضهر ← الوش) ومعاه لمعة على السطح. بعدين الموبايل بيدخل ويتحط على الـQR، وخط الـScan يعدّي مرتين، والـQR ينوّر، ويظهر «اتعمل Scan · بنفتح موقع الأسرة». بعدين الكارت يكبر لحد ما يملا الشاشة ويدوب في خلفية الموقع (الكحلي والأشعة الدهبي والإطار)، وتظهر الخلفية اللي ورا اللوجو، ويظهر اللوجو بهالة وحلقة، والاسم بيتكتب من اليمين للشمال بخط الرقعة، وبعدين «لخدمة شعب كنيستها الحبيبة في سفاجا»، وبعدين السلوجان، وبعدين الترحيب.</p>' +
-    '<p><b>لمسة على الشاشة بتخلّصه على طول.</b> مبيشتغلش مع «تقليل الحركة» (بيدخل الموقع مباشرة). شريط دهبي رفيع تحت بيوضح الوقت.</p>' + frames('first', first) +
+    '<section class="shot"><h2>انترو «أول مرة» — نسخة ٢ (بعد ملاحظاتك) <span class="tag">~١١ ثانية</span></h2>' +
+    '<p><b>اللي اتغير:</b> النص بقى لون واحد صريح (شامبين هادي) على خلفية كحلي سادة، من غير تدرج ولا قص ولا ظل، ومفيش أي حاجة وراه. اتشالت الأشعة ونقط الخلفية والإطار والصلبان اللي فوق وتحت. الكارت بيطلع بهدوء، ويعمل <b>نص لفة واحدة بس</b> (من الضهر للوش) في ثانيتين، بـease-in-out، وبميل خفيف بيرجع مستقيم، وتحته ظل ثابت. الموبايل بيدخل <b>بشاشة نضيفة</b> («وجّه الكاميرا للكود»)، وبعدين الكاميرا بتشتغل، و<b>الـQR بيظهر جوه الموبايل وقت الـScan بس</b>. بعدها الخط بيعدّي مرة واحدة، والكود على الكارت بينوّر، ويظهر «بنفتح موقع الأسرة…». الموبايل والكارت بيرجعوا لورا ويدوبوا في خلفية الموقع، وكل جملة بتظهر لوحدها بهدوء. ولون اللوجو بقى أهدى (تشبع وسطوع أقل).</p>' +
+    '<p><b>الصوت:</b> زرار «اعرض بالصوت» في الصفحة الحية بيشغّل أصوات تجريبية في توقيتها، علشان تحكم على الإحساس والتوقيت. الأصوات النهائية هتبقى ملفات حقيقية وقت التنفيذ (الجدول تحت).</p>' + frames('first', first) +
     '<a class="live" href="intro.html?v=first">شغّله حي ‹</a></section>' +
     '<section class="shot"><h2>انترو «بعد الحساب» (أخف) <span class="tag">~٣٫٥ ثانية</span></h2>' +
-    '<p>من غير الكارت ولا الـScan: الخلفية، واللوجو، والاسم، و«أهلًا يا &lt;اسمه&gt;» ومعاه حاجة تخصه (زي «فاضل ٣ أيام على اجتماع الشباب»)، والسلوجان. ممكن نقرر يشتغل كل مرة، أو مرة في اليوم.</p>' + frames('member', member) +
+    '<p>نفس الأسلوب الجديد: من غير الكارت ولا الـScan. الخلفية، واللوجو، والاسم، و«أهلًا يا &lt;اسمه&gt;» ومعاه حاجة تخصه، والسلوجان. حوالي ٤ ثواني.</p>' + frames('member', member) +
     '<a class="live" href="intro.html?v=member">شغّله حي ‹</a></section>' +
-    '<section class="shot"><h2>قرارات الانترو محتاجة رأيك</h2><p>١) الانترو «أول مرة» يشتغل كل زيارة لحد إنشاء الحساب، ولا مرة واحدة على الجهاز؟<br>٢) «بعد الحساب»: كل فتحة للموقع، ولا مرة في اليوم؟<br>٣) الصوت: نضيف صوت خفيف (لو الصوت شغال في الموقع) ولا من غير صوت؟<br>٤) صفحات المسرحيات فيها دلوقتي علامة B.U.G في أولها: تفضل زي ما هي (الافتراضي).</p></section>' });
+    '<section class="shot"><h2>تصوّر الصوت (SFX)</h2><table><tr><th>الوقت</th><th>المرحلة</th><th>الصوت</th><th>الإحساس</th></tr>' +
+    [['٠٫٠ ث', 'الدخلة', 'نغمة دافية منخفضة (pad)', 'المكان بيتنوّر'], ['٠٫٥ ث', 'ظهور الكارت', 'لمعة زجاج خفيفة', 'حاجة ثمينة بتظهر'], ['٢٫١ ث', 'لفة الكارت', 'swish هوا ناعم طول اللفة', 'حركة سلسة من غير خبطة'], ['٤٫٩ ث', 'الموبايل بيستقر', '«تك» خفيف', 'الموبايل اتحط'], ['٦٫٢ ث', 'الـScan', 'مسح خافت', 'الكاميرا بتقرا'], ['٧٫٠ ث', 'اتعمل Scan', 'نغمتين نضاف (تأكيد)', 'تمام ✓'], ['٧٫٨ ث', 'التحول للموقع', 'swell طالع', 'بننتقل لمكان تاني'], ['٨٫٦ ث', 'اللوجو والاسم', 'كورد جرس هادي', 'وصلنا']].map(function (r) { return '<tr><td>' + r[0] + '</td><td><b>' + r[1] + '</b></td><td>' + r[2] + '</td><td>' + r[3] + '</td></tr>'; }).join('') +
+    '</table><p style="margin-top:10px">كل الأصوات هادية (أقل من صوت الموقع العادي)، وبتشتغل بس لو الصوت مفتوح في الموقع (زرار السماعة اللي فوق). ولو الانترو اتخطى بلمسة، الأصوات الباقية بتتلغي.</p></section>' +
+    '<section class="shot"><h2>قرارات الانترو محتاجة رأيك</h2><p>١) انترو «أول مرة» يشتغل كل زيارة لحد إنشاء الحساب، ولا مرة واحدة على الجهاز؟<br>٢) «بعد الحساب»: كل فتحة للموقع، ولا مرة في اليوم؟<br>٣) الصوت شغال افتراضيًا (لو المتصفح يسمح) ولا لازم المستخدم يفتحه؟</p></section>' });
 })();
